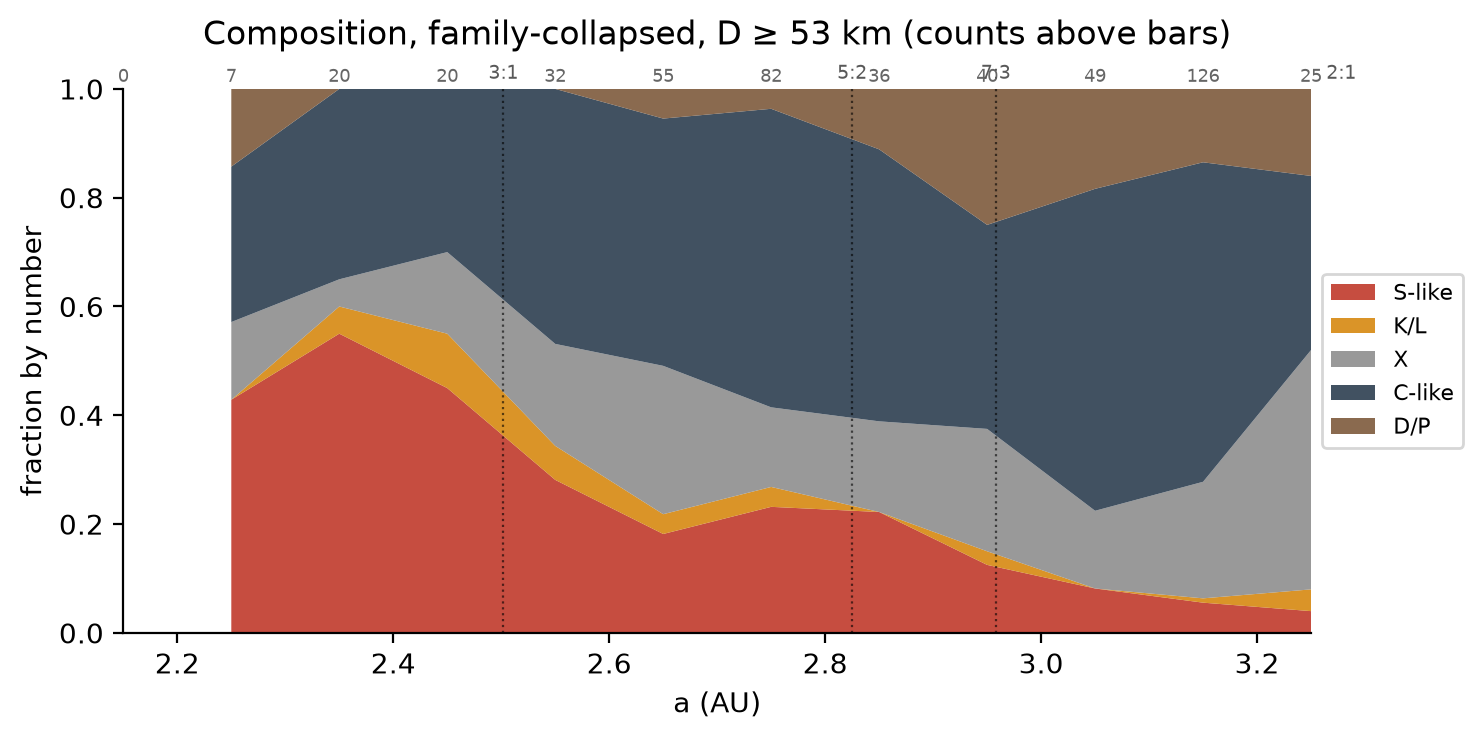
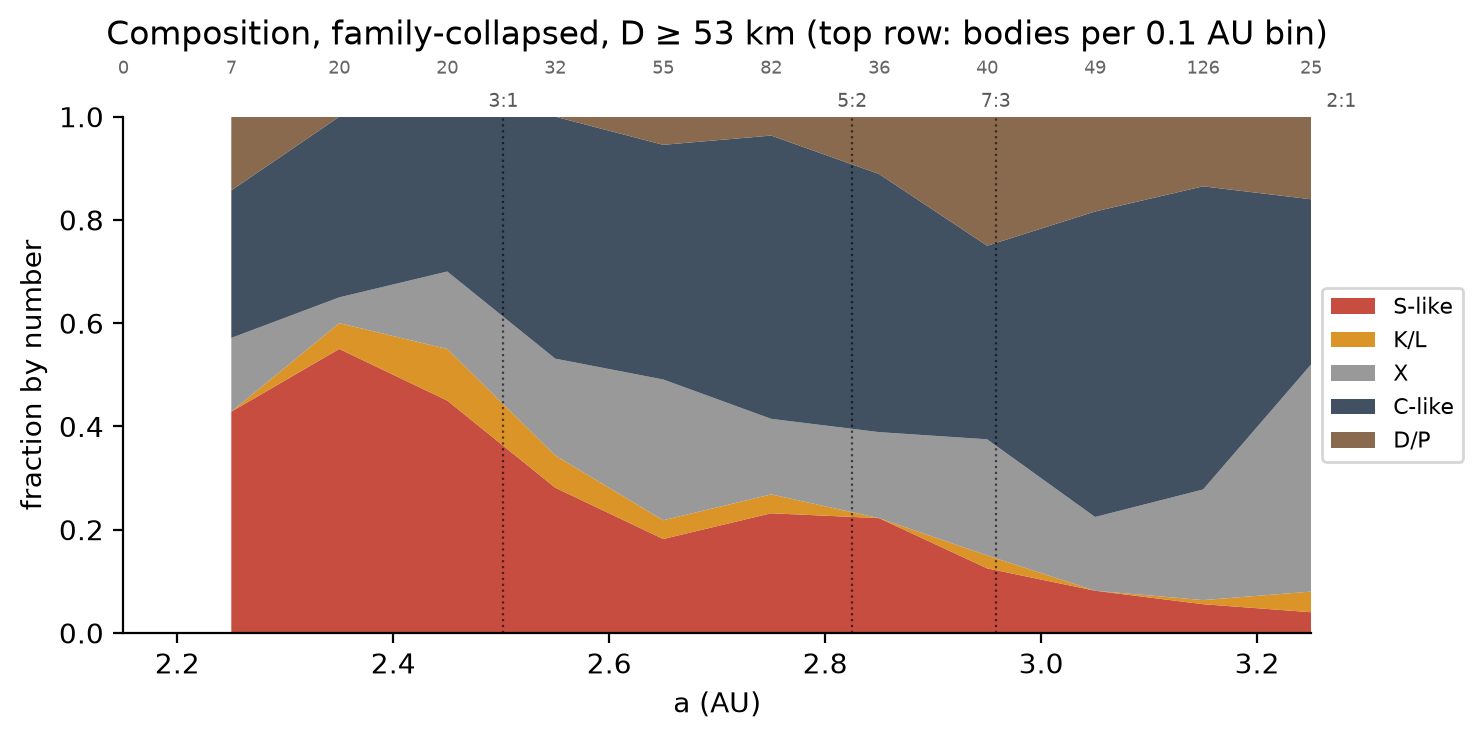
Fig. 3: keep the bin counts clear of the resonance labels (v2.3.1)
In fig1b_stacked_composition.png (the paper's Fig. 3) the per-bin counts
were drawn just above the axes, where mark_structure also writes the
resonance labels, so "40" sat on "7:3" and "36" and "25" crowded "5:2"
and "2:1". The counts now have their own row above the labels, and the
built-in title no longer calls the area plot "bars".

summary.json and the other six figures are byte-identical; the image
keeps its pixel size. README cites the paper's author as L. M. Edwards.
pytest -m "slow or not slow": 28 passed.

diff --git a/src/beltgradient/figures.py b/src/beltgradient/figures.py
@@ -67,7 +67,7 @@ def c_fraction_panels(samples: dict[str, pd.DataFrame], panel_keys: list[str], r
 
 
 def stacked_composition(s: pd.DataFrame, d_c: float):
-    """All five groups for the size-complete, family-collapsed sample (counts above bars)."""
+    """All five groups for the size-complete, family-collapsed sample, with each bin's count above the plot."""
     edges = np.arange(A_MIN, A_MAX + 1e-9, 0.1)
     s = s.assign(bin=pd.cut(s.semi_major_axis_au, edges))
     order = GROUP_ORDER
@@ -76,11 +76,12 @@ def stacked_composition(s: pd.DataFrame, d_c: float):
     fig, ax = plt.subplots(figsize=(7.5, 3.8))
     x = [iv.mid for iv in frac.index]
     ax.stackplot(x, [frac[g] for g in order], colors=[COLORS[g] for g in order], labels=order, alpha=.9)
+    # counts in their own row above the resonance labels, which mark_structure puts just over the axes
     for xi, n in zip(x, st.sum(axis=1)):
-        ax.text(xi, 1.005, f"{int(n)}", ha="center", va="bottom", fontsize=6.5, color="0.4")
+        ax.text(xi, 1.075, f"{int(n)}", transform=ax.get_xaxis_transform(), ha="center", va="bottom", fontsize=6.5, color="0.4")
     mark_structure(ax, snow=False)
-    ax.set(xlim=(A_MIN + .05, A_MAX - .05), ylim=(0, 1), xlabel="a (AU)", ylabel="fraction by number",
-           title=f"Composition, family-collapsed, D ≥ {d_c:.0f} km (counts above bars)")
+    ax.set(xlim=(A_MIN + .05, A_MAX - .05), ylim=(0, 1), xlabel="a (AU)", ylabel="fraction by number")
+    ax.set_title(f"Composition, family-collapsed, D ≥ {d_c:.0f} km (top row: bodies per 0.1 AU bin)", pad=26)
     ax.legend(loc="center left", bbox_to_anchor=(1, .5), fontsize=8); fig.tight_layout()
     return fig
 

diff --git a/src/beltgradient/__init__.py b/src/beltgradient/__init__.py
@@ -4,4 +4,4 @@ Analysis code for Edwards (2026), "Constraints on the Origin of the Asteroid Bel
 from Debiased Taxonomic Data". ``python -m beltgradient fetch`` downloads the inputs;
 ``python -m beltgradient run`` regenerates every figure and ``results/summary.json``.
 """
-__version__ = "2.3.0"
+__version__ = "2.3.1"

diff --git a/README.md b/README.md
@@ -1,6 +1,6 @@
 # asteroid-belt-gradient
 
-Analysis code for L. Edwards (2026), **"Constraints on the Origin of the Asteroid Belt's Compositional Gradient from Debiased Taxonomic Data"** (Department of Aerospace, Physics, and Space Sciences, Florida Institute of Technology).
+Analysis code for L. M. Edwards (2026), **"Constraints on the Origin of the Asteroid Belt's Compositional Gradient from Debiased Taxonomic Data"** (Department of Aerospace, Physics, and Space Sciences, Florida Institute of Technology).
 
 If asteroids formed where they are today, the main belt should switch sharply from dry S-types to hydrated C-types at the nebular snow line near 2.7 AU. This package tests that against the 161,659 main-belt asteroids with a published taxonomy in the AsteroidCatalog release `data-2026-09-29c`, after collapsing collisional families and correcting for the brightness bias that favors S-types. It regenerates every figure and every data-derived number in the paper from two public inputs.
 
@@ -94,7 +94,7 @@ The catalog is a merger, and two of its sources make citation a condition of use
 
 The full list is in the [AsteroidCatalog citations](https://github.com/loggger101/AsteroidCatalog/blob/main/CITATIONS.md).
 
-See [`CITATION.cff`](CITATION.cff). The paper cites release **v2.3.0**, which reads the AsteroidCatalog release `data-2026-09-29c` (data contract 1.8.1). Against `data-2026-09-27`, which v2.2.0 read, that release adds two mineral-phase columns this analysis does not read and 225 main-belt bodies, all of them unclassified, and names 47 more bodies. No main-belt body's class, orbit, H, diameter, albedo or mass moves (beyond one part in 10¹²). So only the main-belt and assumed-albedo counts change (and the assumed-label share, 0.8323 → 0.8324), along with the two figures that show them (completeness and circularity); every fraction, crossover, orbit test, mass share and table is identical. v2.2.0 read `data-2026-09-27`, and v2.1.0 read `data-2026-09-26b`. Against the latter, the 2026-09-27 rebuild adds 751 main-belt bodies, none of them classified, and changes only masses estimated from a class density: an X-type with a measured albedo now takes the density of the P, M or E class that albedo indicates, one without takes their mixture, and the P and Q densities are lower. No main-belt body's class, orbit, H, diameter or albedo moves. So only the main-belt and assumed-albedo counts, the family fraction under the one-step extension (by 0.0002), the measured share of classified mass (0.940 → 0.951) and five mass shares (by at most 0.005) change, along with the three figures that show them (completeness, mass by zone, circularity). The mass-by-zone figure also puts its legend under the panels, where it no longer covers the outer zone's total. Every fraction, crossover, orbit test and table is identical. v2.1.0 differed from v2.0.0 (`data-2026-09-26`) in the same way: 185 more unclassified bodies and corrected Xe, Xk and Xc densities. The v1.x releases analysed the catalog's 2026-08-11 build (pipeline 1.1.0, frozen as this repository's [`data-v1`](https://github.com/loggger101/asteroid-belt-gradient/releases/tag/data-v1) snapshot), so their numbers differ slightly. v2.0.0 also groups classes F and Z, which v1.x left out of every fraction.
+See [`CITATION.cff`](CITATION.cff). The paper cites release **v2.3.1**, which reads the AsteroidCatalog release `data-2026-09-29c` (data contract 1.8.1). It differs from v2.3.0 only in Fig. 3 (`fig1b_stacked_composition.png`), whose bin counts now sit in their own row instead of colliding with the resonance labels; `summary.json` and the other figures are identical. Against `data-2026-09-27`, which v2.2.0 read, the release that v2.3.0 and v2.3.1 read adds two mineral-phase columns this analysis does not read and 225 main-belt bodies, all of them unclassified, and names 47 more bodies. No main-belt body's class, orbit, H, diameter, albedo or mass moves (beyond one part in 10¹²). So only the main-belt and assumed-albedo counts change (and the assumed-label share, 0.8323 → 0.8324), along with the two figures that show them (completeness and circularity); every fraction, crossover, orbit test, mass share and table is identical. v2.2.0 read `data-2026-09-27`, and v2.1.0 read `data-2026-09-26b`. Against the latter, the 2026-09-27 rebuild adds 751 main-belt bodies, none of them classified, and changes only masses estimated from a class density: an X-type with a measured albedo now takes the density of the P, M or E class that albedo indicates, one without takes their mixture, and the P and Q densities are lower. No main-belt body's class, orbit, H, diameter or albedo moves. So only the main-belt and assumed-albedo counts, the family fraction under the one-step extension (by 0.0002), the measured share of classified mass (0.940 → 0.951) and five mass shares (by at most 0.005) change, along with the three figures that show them (completeness, mass by zone, circularity). The mass-by-zone figure also puts its legend under the panels, where it no longer covers the outer zone's total. Every fraction, crossover, orbit test and table is identical. v2.1.0 differed from v2.0.0 (`data-2026-09-26`) in the same way: 185 more unclassified bodies and corrected Xe, Xk and Xc densities. The v1.x releases analysed the catalog's 2026-08-11 build (pipeline 1.1.0, frozen as this repository's [`data-v1`](https://github.com/loggger101/asteroid-belt-gradient/releases/tag/data-v1) snapshot), so their numbers differ slightly. v2.0.0 also groups classes F and Z, which v1.x left out of every fraction.
 
 ## License
 
